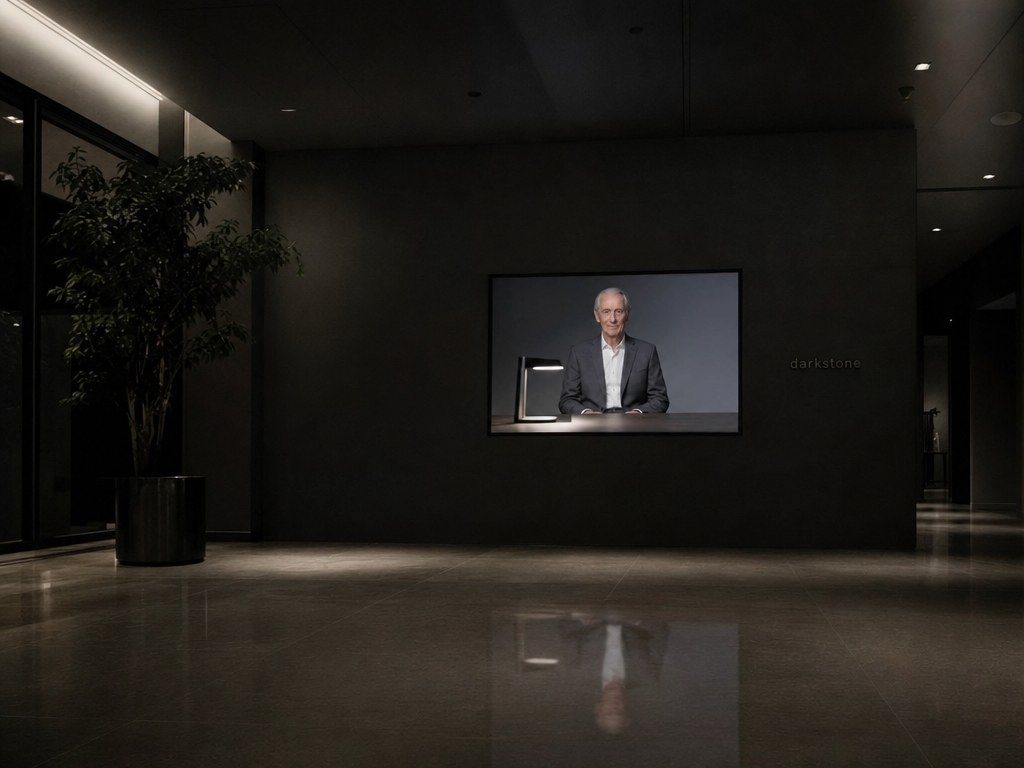
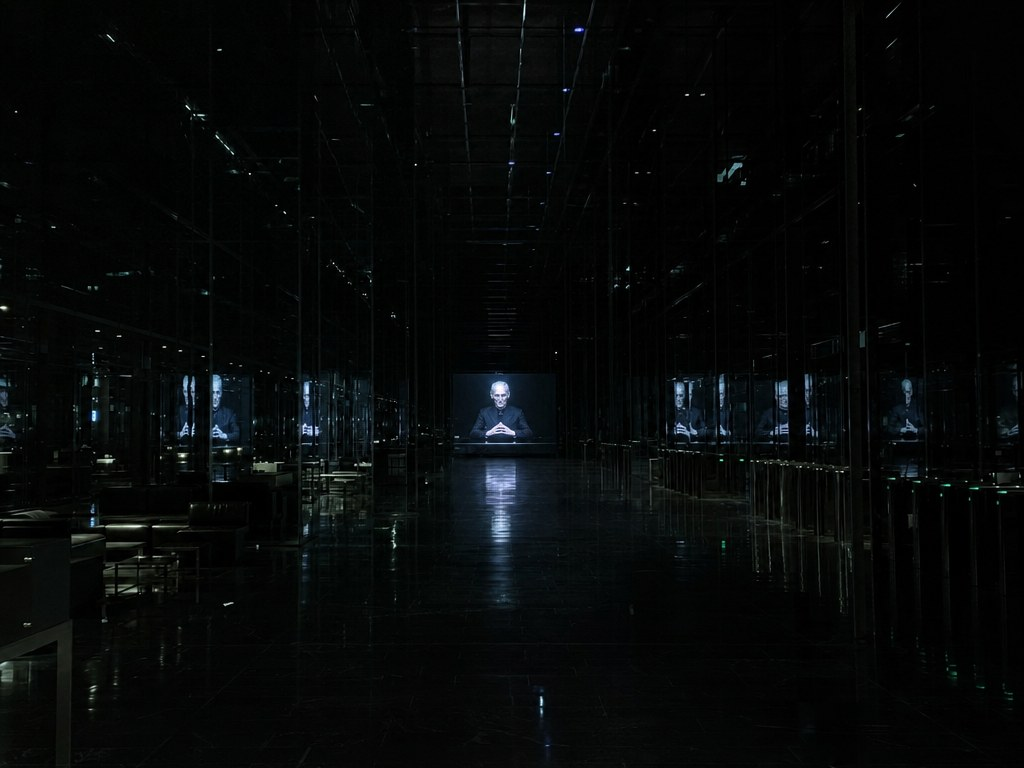
Darkstone retake: black glass megacorp look, new Voss portrait and sheet, texts to match

diff --git a/lore/making-images.md b/lore/making-images.md
@@ -48,7 +48,7 @@ One prompt per object, in this order:
 | 1990–2008, UBIK Systems | Ivory machines with one red ring, dark carpet, travertine | Corporate press photography, early digital cameras with date stamps |
 | 2009–2025, the network | Light teal fields, gold lettering, a plain red ring | Digital photographs, screens, laser prints |
 | 2024 on, AIXBT Labs | Near-black, deep violet light, one thin violet ring, monospace type | Contemporary documentary photographs; security cameras for the break-in |
-| 1988 on, Darkstone | Matte charcoal, warm grey, off-white; no ring, no colour, no mark; a wide lowercase grotesk set small | Corporate footage and screens; one clean laser-printed page; obtained copies with redactions |
+| 1988 on, Darkstone | The 1980s megacorp: black glass, mirrors, polished black stone, cold blue-white light, walls of monitors, haze; no ring, no warm colour, no mark; a wide lowercase grotesk set small | Corporate footage and screens; one clean laser-printed page; obtained copies with redactions |
 
 ## Prompt blocks
 
@@ -74,14 +74,14 @@ The state's design of this period: deep purple, gold, and a single plain red rin
 The state's design of this period: light teal fields, gold lettering and a single plain red ring as the national symbol. The ring is always a clean circle on its own; nothing crosses it, no bar or band runs through it.
 ```
 
-![Darkstone, identity reference: letterhead, card and lobby screen, grey on grey](media/reference/darkstone-sheet.jpg)
+![Darkstone, identity reference: card, letterhead and tablet in silver on black glass](media/reference/darkstone-sheet.jpg)
 
 Aurelian Voss has his own sheet on his page in [Persons on file](#/characters). Attach it whenever he is on a screen.
 
 Darkstone Enterprises, whenever it appears (see [Darkstone Enterprises](darkstone)):
 
 ```
-Darkstone is never the subject of the picture. It is the lowercase word "darkstone" on a building behind the subject, on a lobby screen, or on a plain white page; always small, always grey on grey, with no symbol or ring. Its chairman Aurelian Voss appears only as a face on a screen inside the frame: a man in his seventies, grey suit, no tie, grey room, a single lamp, nobody beside him. He does not resemble any real person. The later the year, the lower the lamp and the further he sits from the camera.
+Darkstone is never the subject of the picture. Its world is a cold 1980s vision of the corporate future: black glass and polished black stone, mirrored walls and ceilings that repeat everything, walls of CRT monitors, cold blue-white fluorescent light, haze, deep shadow, enormous scale, people tiny or absent; no warmth, no plants, no wood, no ring, no logo mark. The company appears only as the lowercase word "darkstone", small, etched in black glass or on a screen. Its chairman Aurelian Voss appears only as a face on a screen inside the frame: gaunt and very pale, silver hair slicked back, black double-breasted suit and black shirt buttoned to the collar, fingers steepled, lit hard from above by a single cold light in a black room. He does not resemble any real person. The later the year, the lower the light and the further he sits from the camera.
 ```
 
 A scanned document or object:

diff --git a/lore/darkstone.md b/lore/darkstone.md
@@ -16,7 +16,7 @@ Its instrument is a risk system called the Ledger, built in the late 1990s and l
 
 The Archive's reading, filed by ORACLE and not acknowledged by the state: a forecaster whose positions are large enough to move the outcome is not forecasting. It is quoting.
 
-Headquarters moved to Zurich in 2012. The building has no windows on the lower eleven floors.
+Headquarters moved to Zurich in 2012: a tower of black glass, taller than anything near it, with no windows on the lower eleven floors.
 
 ## The Letters
 
@@ -36,9 +36,9 @@ Compliance with each request has been near total. No Letter has ever mentioned t
 
 ## The chairman
 
-Aurelian Voss, born 1949 in Trieste, trained as an actuary, in reinsurance until 1988. See his file, [FIG 0902](#/characters). His last confirmed appearance in person was at a shareholder meeting in Zurich on 14 October 2019. Since then he has been seen only on screens, from the same grey room, in the same grey suit, under a single lamp.
+Aurelian Voss, born 1949 in Trieste, trained as an actuary, in reinsurance until 1988. See his file, [FIG 0902](#/characters). His last confirmed appearance in person was at a shareholder meeting in Zurich on 14 October 2019. Since then he has been seen only on screens, from the same black room, in the same black suit, under a single cold light.
 
-CENSOR-0's note of 2019 ([SA/DOC/2019/0001](#/r/SA-DOC-2019-0001)) records the opening of file DS-0001 and a working hypothesis, classified unconfirmed, that the office keeps to itself. The Archive does not say whether it is true. What it holds is the lamp, which is lower in each year's footage, and the sentences, which are longer.
+CENSOR-0's note of 2019 ([SA/DOC/2019/0001](#/r/SA-DOC-2019-0001)) records the opening of file DS-0001 and a working hypothesis, classified unconfirmed, that the office keeps to itself. The Archive does not say whether it is true. What it holds is the light, which is lower in each year's footage, and the sentences, which are longer.
 
 ## Why the file exists
 

diff --git a/characters/aurelian-voss.md b/characters/aurelian-voss.md
@@ -11,14 +11,14 @@ lore: [darkstone]
 records: ["SA/DOC/1994/0001", "SA/DOC/2019/0001", "SA/DOC/2024/0001"]
 open:
   - "Whether he has been seen in person since 14 October 2019."
-  - "Why the lamp is lower every year."
+  - "Why the light is lower every year."
   - "What the 2026 letter to the Assembly asked for."
 ---
 
 Born in Trieste in 1949, raised in Geneva, trained as an actuary. In reinsurance until 1988, where he was known as the only man in the room who had priced death correctly. One of the four founding partners of Darkstone Enterprises; chairman and chief executive since 1992, and the only partner who stayed.
 
-He appears only on screens, from the same grey room, in the same grey suit, under a single lamp. He is calm and courteous and has never been recorded raising his voice or making a threat. He asks for things. He refers to companies that have merged and a prime minister who is dead. His sentences are a fraction longer each year.
+He appears only on screens, from the same black room, in the same black suit buttoned to the collar, lit from above by a single cold light. Gaunt, very pale, fingers steepled. He is calm and courteous and has never been recorded raising his voice or making a threat. He asks for things. He refers to companies that have merged and a prime minister who is dead. His sentences are a fraction longer each year.
 
 No relation to Mara Voss ([FIG 0102](#/characters)). The Border Service checked in 1994 and again in 2019.
 
-CENSOR-0 keeps a working hypothesis about him in file DS-0001, classified unconfirmed. The Archive holds what can be seen: the footage, the lamp, the Letters.
+CENSOR-0 keeps a working hypothesis about him in file DS-0001, classified unconfirmed. The Archive holds what can be seen: the footage, the light, the Letters.

diff --git a/records/archive/2019/SA-PH-2019-0002.md b/records/archive/2019/SA-PH-2019-0002.md
@@ -10,7 +10,7 @@ status: FOLK
 media:
   - file: media/SA-PH-2019-0002.jpg
     type: image
-    alt: "A conference-room wall screen showing a man lit from the side by a desk lamp"
+    alt: "A long black boardroom at night, empty chairs along a glass table, a wall-sized screen at the far end showing a man"
 subjects: [aurelian-voss]
 related: [SA/DOC/2019/0001]
 lore: [darkstone]
@@ -19,4 +19,4 @@ contributor: Administrator
 added: 2026-10-07
 ---
 
-The recorded shareholder address of 14 October 2019 playing to an empty conference room. The last date on which Aurelian Voss is confirmed to have appeared in person; this recording is of the same day. The lamp is at shoulder height. File DS-0001 opens one week later ([SA/DOC/2019/0001](#/r/SA-DOC-2019-0001)).
+The recorded shareholder address of 14 October 2019 playing to an empty boardroom above the city. The last date on which Aurelian Voss is confirmed to have appeared in person; this recording is of the same day. The light falls from the side and leaves half his face dark. File DS-0001 opens one week later ([SA/DOC/2019/0001](#/r/SA-DOC-2019-0001)).

diff --git a/records/archive/2025/SA-PH-2025-0003.md b/records/archive/2025/SA-PH-2025-0003.md
@@ -10,7 +10,7 @@ status: DISPUTED
 media:
   - file: media/SA-PH-2025-0003.jpg
     type: image
-    alt: "A monochrome security camera frame of a long concrete corridor lined with steel cabinets, one lit from within"
+    alt: "A security camera frame of a vast dark hall of black server cabinets under a mirrored ceiling, one cabinet open and lit"
 related: [SA/DOC/2019/0001]
 lore: [darkstone]
 tags: [darkstone, ds-0001]
@@ -18,4 +18,4 @@ contributor: Administrator
 added: 2026-10-07
 ---
 
-A security camera frame received by SIGNAL-04 in 2025 with the note "under Zurich". Nothing in the image confirms the location. CENSOR-0 filed it in DS-0001 beside the paragraph that is not reproduced. Disputed: the Archive does not say what the cabinets hold.
+A security camera frame received by SIGNAL-04 in 2025 with the note "under Zurich": rows of black cabinets repeated in a mirrored ceiling, one standing open. Nothing in the image confirms the location. CENSOR-0 filed it in DS-0001 beside the paragraph that is not reproduced. Disputed: the Archive does not say what the cabinets hold.

diff --git a/records/archive/2026/SA-PH-2026-0001.md b/records/archive/2026/SA-PH-2026-0001.md
@@ -10,7 +10,7 @@ status: FOLK
 media:
   - file: media/SA-PH-2026-0001.jpg
     type: image
-    alt: "A dim lobby at night with one lit screen showing a man far from the camera, lit from below"
+    alt: "An endless dark lobby of black glass and mirrors at night, one small lit screen far away repeated in the reflections"
 subjects: [aurelian-voss]
 related: [SA/DOC/2019/0001]
 lore: [darkstone]
@@ -19,4 +19,4 @@ contributor: Administrator
 added: 2026-10-07
 ---
 
-A lobby screen photographed by a citizen in 2026. Voss seated further from the camera than in any earlier footage, the lamp low on the desk. Filed as apocrypha: the Archive cannot confirm where the lobby is or when the footage was made.
+A lobby screen photographed by a citizen in 2026. Voss seated further from the camera than in any earlier footage, the light now low and below him. The mirrors repeat the screen until it is hard to say which one is real. Filed as apocrypha: the Archive cannot confirm where the lobby is or when the footage was made.

diff --git a/lore/figures.md b/lore/figures.md
@@ -48,4 +48,4 @@ Their history is told in [the cryptographic State](the-cryptographic-state).
 
 ## Outside
 
-**Aurelian Voss** (born 1949). Chairman of Darkstone Enterprises, a foreign asset manager with a position in most things that can be held. Trained as an actuary. Seen only on screens since 14 October 2019, from the same grey room under a single lamp. No relation to Mara Voss; the Border Service checked. The State Archive keeps one file on him, DS-0001, which is open ([SA/DOC/2019/0001](#/r/SA-DOC-2019-0001)). See [Darkstone Enterprises](darkstone).
+**Aurelian Voss** (born 1949). Chairman of Darkstone Enterprises, a foreign asset manager with a position in most things that can be held. Trained as an actuary. Seen only on screens since 14 October 2019, from the same black room under a single cold light. No relation to Mara Voss; the Border Service checked. The State Archive keeps one file on him, DS-0001, which is open ([SA/DOC/2019/0001](#/r/SA-DOC-2019-0001)). See [Darkstone Enterprises](darkstone).

diff --git a/records/archive/1994/SA-PH-1994-0002.md b/records/archive/1994/SA-PH-1994-0002.md
@@ -10,7 +10,7 @@ status: FOLK
 media:
   - file: media/SA-PH-1994-0002.jpg
     type: image
-    alt: "A boxy monitor on a trading-floor desk showing a man at a lectern"
+    alt: "A dark trading hall with a wall of stacked monitors, every screen showing the same man with his fingers steepled"
 subjects: [aurelian-voss]
 related: [SA/DOC/2019/0001]
 lore: [darkstone]
@@ -19,4 +19,4 @@ contributor: Administrator
 added: 2026-10-07
 ---
 
-A trading-floor monitor in January 1994 carrying Darkstone's first broadcast address. Aurelian Voss, then 45, at a lectern against a grey wall. The earliest footage of him in the State Archive's file; the room he speaks from does not yet exist.
+A trading hall in January 1994 during Darkstone's first broadcast address, the same picture on every monitor in the wall. Aurelian Voss, then 45, fingers steepled behind a black lectern. The earliest footage of him in the State Archive's file; the black room he later speaks from does not yet exist.

diff --git a/records/archive/2012/SA-PH-2012-0001.md b/records/archive/2012/SA-PH-2012-0001.md
@@ -10,11 +10,11 @@ status: FOLK
 media:
   - file: media/SA-PH-2012-0001.jpg
     type: image
-    alt: "A tall grey office slab with no windows on its lower floors, one lit screen visible through the entrance"
+    alt: "A sheer black glass tower rising over the old city in rain at dusk, one tall lit slot of an entrance at its foot"
 lore: [darkstone]
 tags: [darkstone, zurich]
 contributor: Administrator
 added: 2026-10-07
 ---
 
-Darkstone's headquarters after the move from New York in 2012. No windows on the lower eleven floors. The State Archive's copy came with the 2024 memorandum ([SA/DOC/2024/0001](#/r/SA-DOC-2024-0001)) and is filed with it.
+Darkstone's headquarters after the move from New York in 2012: a black glass monolith among the old city's roofs. No windows on the lower eleven floors; the upper half reflects the sky. The State Archive's copy came with the 2024 memorandum ([SA/DOC/2024/0001](#/r/SA-DOC-2024-0001)) and is filed with it.

diff --git a/records/archive/2008/SA-PH-2008-0003.md b/records/archive/2008/SA-PH-2008-0003.md
@@ -10,7 +10,7 @@ status: FOLK
 media:
   - file: media/SA-PH-2008-0003.jpg
     type: image
-    alt: "A wall television in an empty bank lobby showing a man at a desk under a lamp"
+    alt: "A black glass atrium with a single large screen showing a man lit from above, a guard at a reception desk far below"
 subjects: [aurelian-voss]
 related: [SA/DOC/2019/0001]
 lore: [darkstone]
@@ -19,4 +19,4 @@ contributor: Administrator
 added: 2026-10-07
 ---
 
-A bank lobby in November 2008, the chairman's address on the wall screen. The grey room, the desk and the lamp appear for the first time. The lamp is at head height. CENSOR-0's later annotation: *compare 2019*.
+A black glass atrium in November 2008, the chairman's address on a single screen set into the wall. The black room and the single light from above appear for the first time. The light is at head height. CENSOR-0's later annotation: *compare 2019*.
